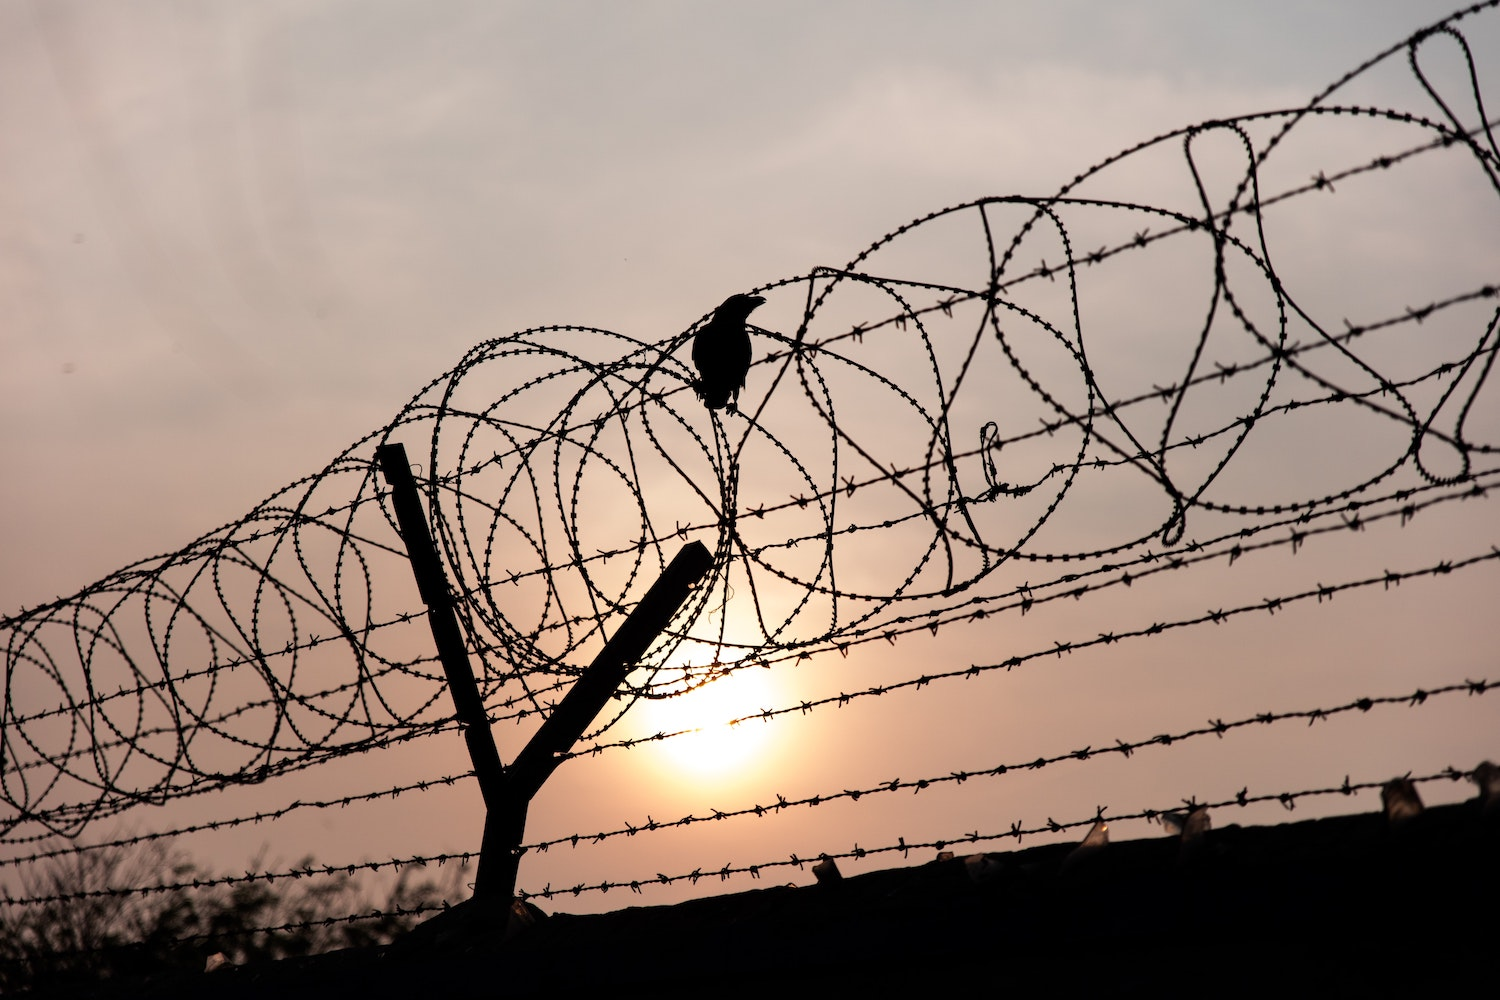
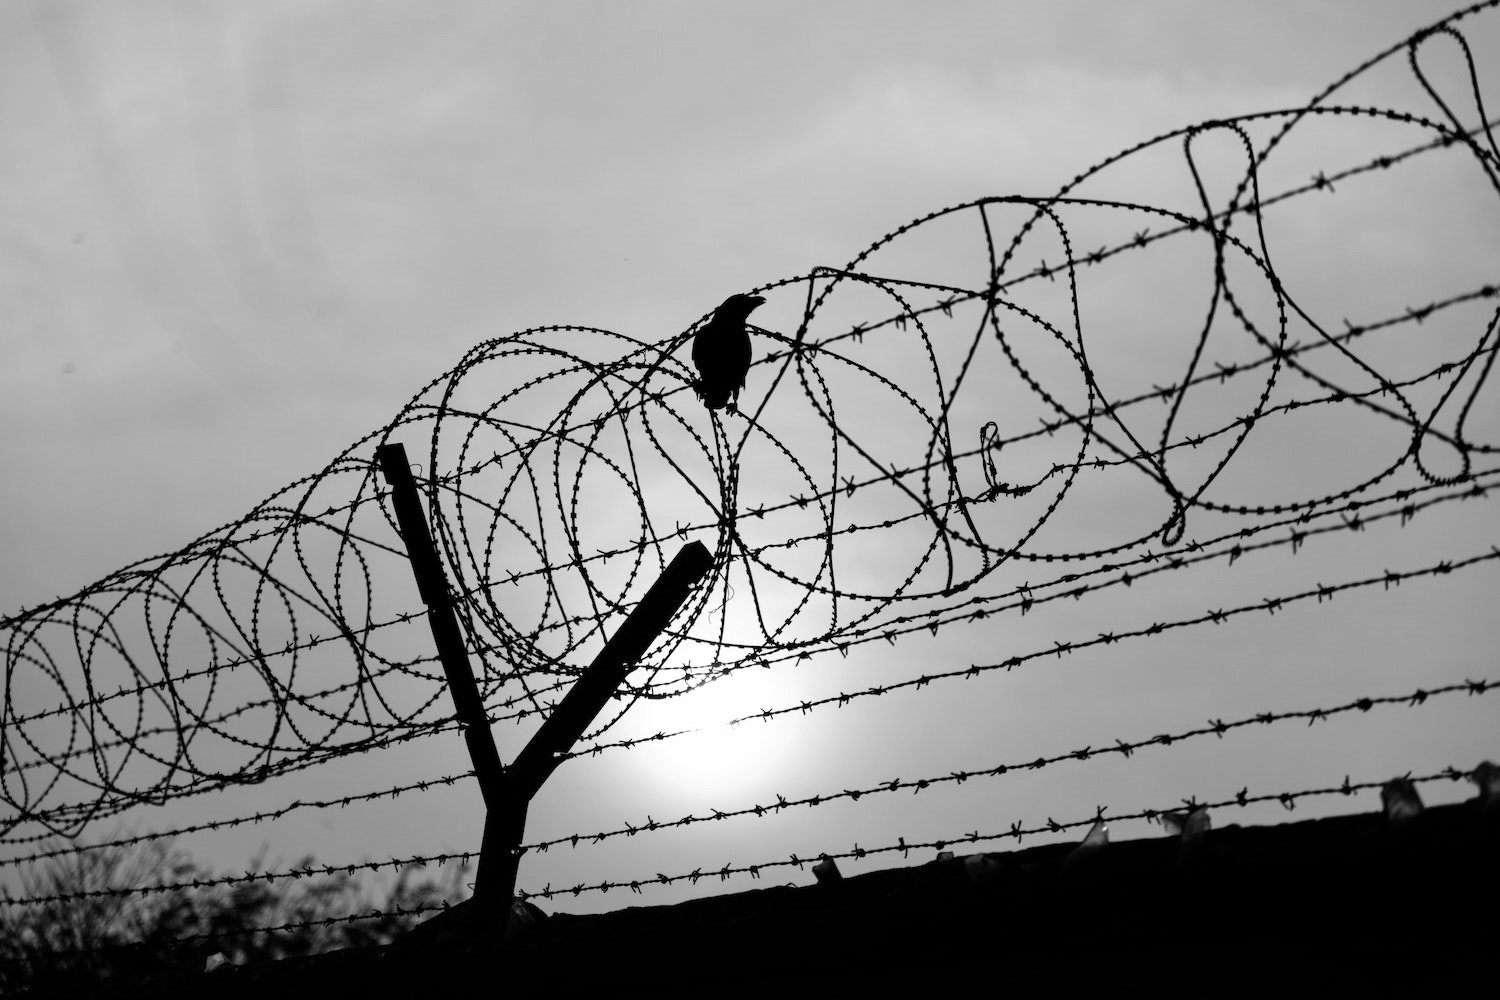
changed images to black n white

Changed region(s): [[0.0, 0.372, 0.9507, 0.93]]

diff --git a/app.js b/app.js
@@ -39,5 +39,5 @@ app.get('/transfers_article', function(req, res)
     console.log("hello");
 });
 
-app.listen(process.env.PORT, process.env.IP);
-//app.listen(port, () => console.log(`Example app listening at http://localhost:${port}`))
+//app.listen(process.env.PORT, process.env.IP);
+app.listen(port, () => console.log(`Example app listening at http://localhost:${port}`))
